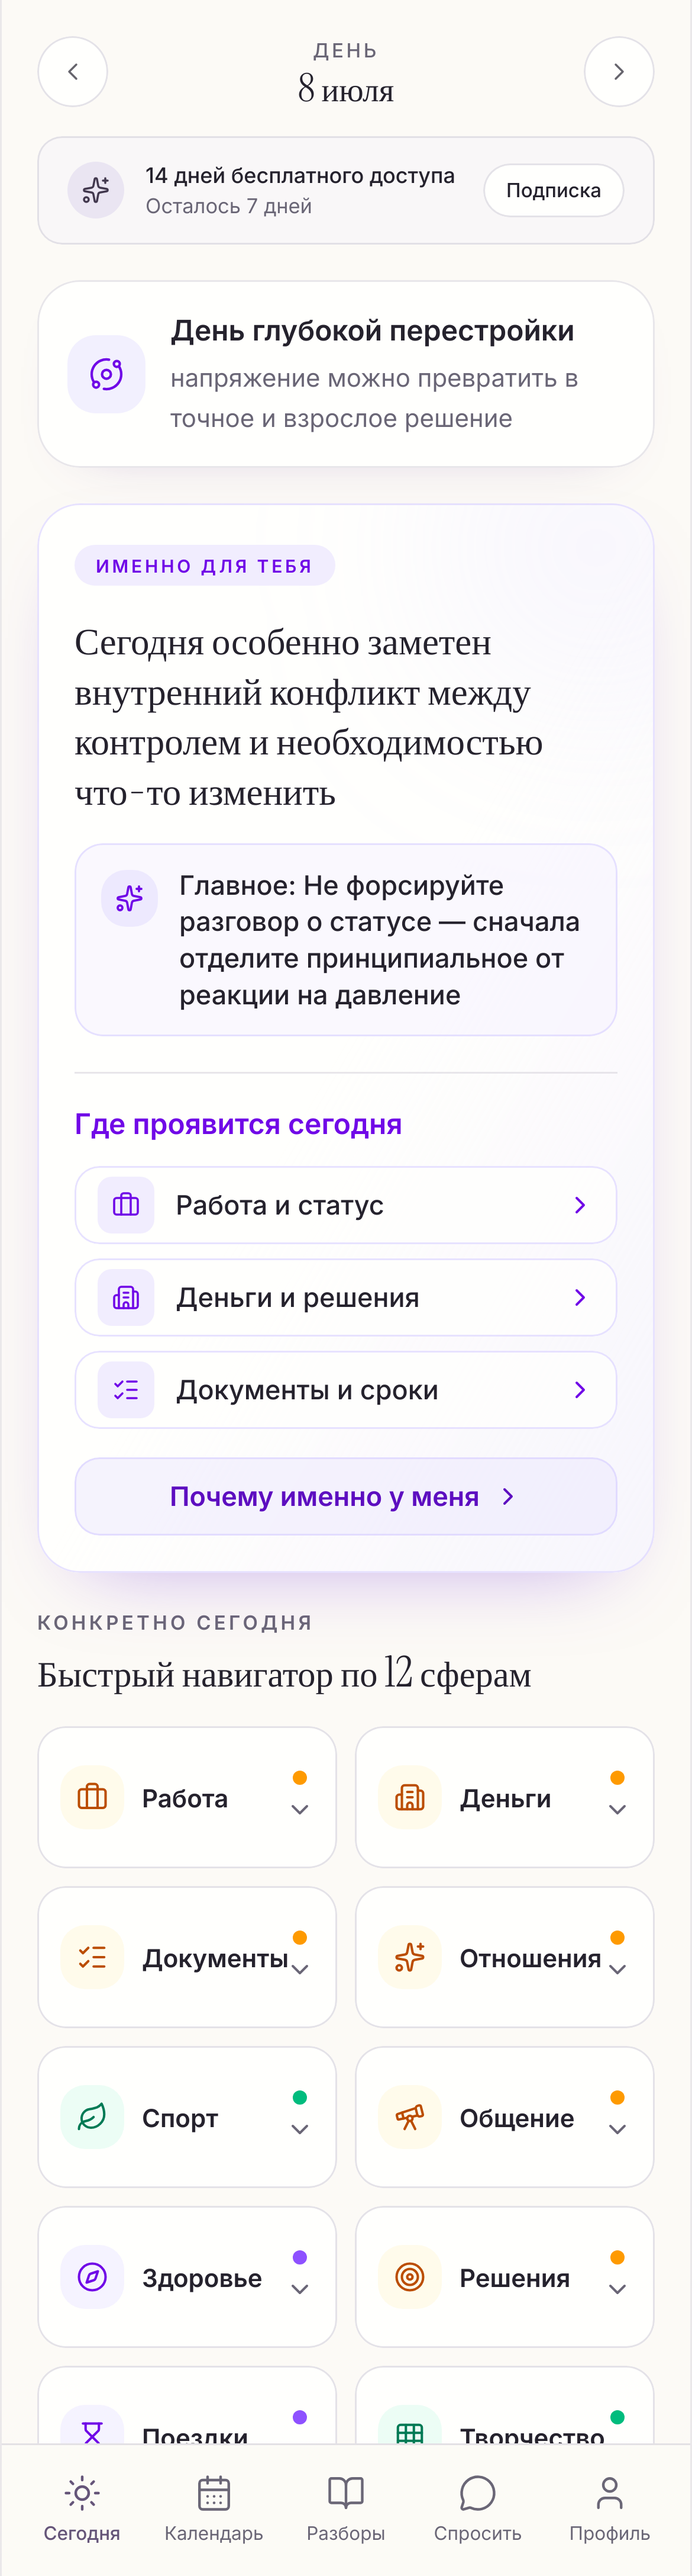
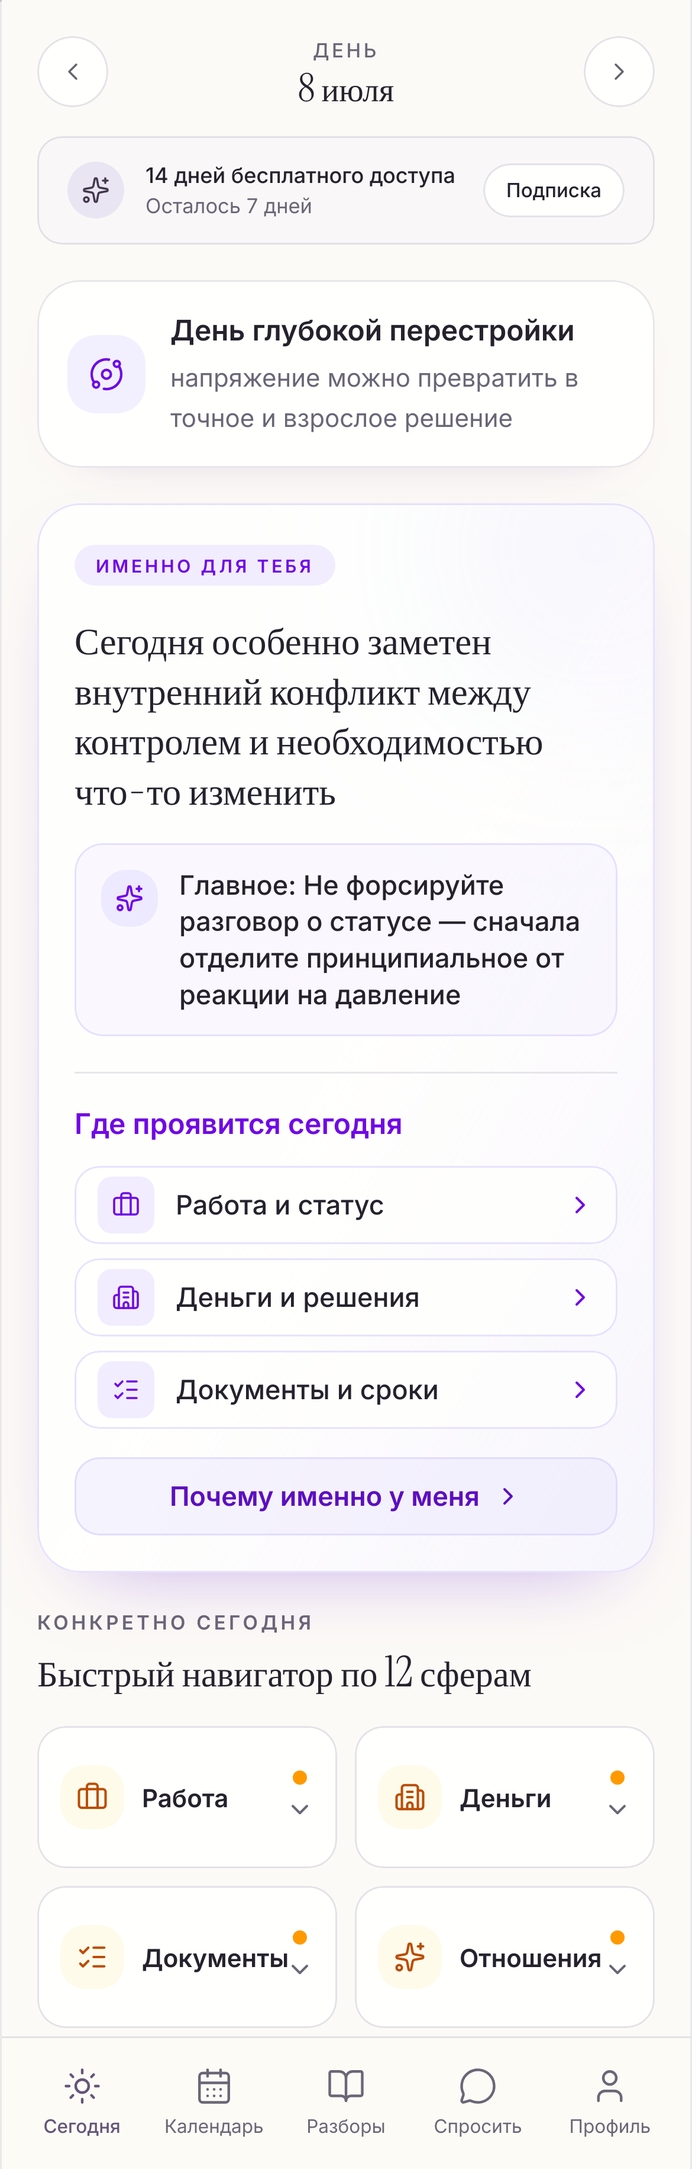
test(today): guard human-first visual captures

diff --git a/e2e/mock-visual/day-v2.spec.ts b/e2e/mock-visual/day-v2.spec.ts
@@ -19,13 +19,14 @@
 // failure_policy: Fails on missing fixture routes, public-contract regressions, or visual mismatch.
 // END_MODULE_CONTRACT: M-E2E-MOCK-VISUAL-DAY-V2
 
-import { expect, test, type Page } from "@playwright/test"
+import { expect, test, type Locator, type Page } from "@playwright/test"
 import { expectNoMissingApiFixtures, installMockApiRoutes, type MockApiRouteFixtures } from "./route-interception"
 import { dayPayloadV2, minimalDayPayloadForDate } from "./fixtures/day-v2-2026-07-08"
 import { calendarPayload } from "./fixtures/calendar-2026-07"
 import { referralPayload, profilePayload } from "./fixtures/profile"
 import fs from "node:fs"
 import path from "node:path"
+import { inflateSync } from "node:zlib"
 
 const WEEK_STRIP_MIN_DATES = [
   "2026-07-05",
@@ -89,10 +90,83 @@ async function hideNextOverlay(page: Page) {
   })
 }
 
-async function capture(page: Page, name: string) {
+function nearBlackPixelRatio(png: Buffer): number {
+  let cursor = 8
+  let width = 0
+  let height = 0
+  const idat: Buffer[] = []
+  while (cursor < png.length) {
+    const length = png.readUInt32BE(cursor)
+    const type = png.subarray(cursor + 4, cursor + 8).toString("ascii")
+    const data = png.subarray(cursor + 8, cursor + 8 + length)
+    if (type === "IHDR") {
+      width = data.readUInt32BE(0)
+      height = data.readUInt32BE(4)
+      if (data[8] !== 8 || data[9] !== 6) throw new Error("Expected an 8-bit RGBA Playwright PNG")
+    }
+    if (type === "IDAT") idat.push(data)
+    cursor += length + 12
+  }
+  const bytesPerRow = width * 4
+  const decompressed = inflateSync(Buffer.concat(idat))
+  let offset = 0
+  let nearBlack = 0
+  let previous = Buffer.alloc(bytesPerRow)
+  for (let row = 0; row < height; row += 1) {
+    const filter = decompressed[offset]
+    offset += 1
+    const raw = decompressed.subarray(offset, offset + bytesPerRow)
+    offset += bytesPerRow
+    const current = Buffer.alloc(bytesPerRow)
+    for (let index = 0; index < bytesPerRow; index += 1) {
+      const left = index >= 4 ? current[index - 4] : 0
+      const above = previous[index]
+      const upperLeft = index >= 4 ? previous[index - 4] : 0
+      const predictor = filter === 0 ? 0
+        : filter === 1 ? left
+          : filter === 2 ? above
+            : filter === 3 ? Math.floor((left + above) / 2)
+              : filter === 4 ? paeth(left, above, upperLeft)
+                : (() => { throw new Error(`Unsupported PNG filter: ${filter}`) })()
+      current[index] = (raw[index] + predictor) & 0xff
+    }
+    for (let index = 0; index < bytesPerRow; index += 4) {
+      if (
+        (current[index] < 12 && current[index + 1] < 12 && current[index + 2] < 12)
+        || current[index + 3] < 250
+      ) nearBlack += 1
+    }
+    previous = current
+  }
+  return nearBlack / (width * height)
+}
+
+function paeth(left: number, above: number, upperLeft: number): number {
+  const estimate = left + above - upperLeft
+  const leftDistance = Math.abs(estimate - left)
+  const aboveDistance = Math.abs(estimate - above)
+  const upperLeftDistance = Math.abs(estimate - upperLeft)
+  return leftDistance <= aboveDistance && leftDistance <= upperLeftDistance
+    ? left
+    : aboveDistance <= upperLeftDistance ? above : upperLeft
+}
+
+function expectLightThemePng(png: Buffer) {
+  expect(nearBlackPixelRatio(png)).toBeLessThan(0.001)
+}
+
+async function capturePage(page: Page, name: string) {
   fs.mkdirSync(ASSETS_DIR, { recursive: true })
-  await page.screenshot({ path: path.join(ASSETS_DIR, name), fullPage: false })
+  const png = await page.screenshot({ path: path.join(ASSETS_DIR, name), fullPage: false })
+  expectLightThemePng(png)
   await expect(page).toHaveScreenshot(name)
+}
+
+async function captureLocator(locator: Locator, name: string) {
+  fs.mkdirSync(ASSETS_DIR, { recursive: true })
+  const png = await locator.screenshot({ path: path.join(ASSETS_DIR, name) })
+  expectLightThemePng(png)
+  await expect(locator).toHaveScreenshot(name)
 }
 
 test.describe("V2 human-first navigator mock visual", () => {
@@ -144,11 +218,17 @@ test.describe("V2 human-first navigator mock visual", () => {
     await expect(navigator).not.toContainText("Показать ещё")
     await expect(navigator).not.toContainText("все 12 сфер")
 
-    // Top state is deliberately captured before scrolling or opening disclosures.
-    await page.setViewportSize({ width: 390, height: 1_450 })
+    // Top state is deliberately captured before opening disclosures. Its tall
+    // viewport includes the complete hero and the first navigator row.
     await screen.evaluate((element) => element.parentElement?.scrollTo({ top: 0 }))
+    const overviewHeight = await page.evaluate(() => {
+      const navigator = document.querySelector<HTMLElement>('[data-testid="concrete-day-advice"]')
+      if (!navigator) throw new Error("Navigator is missing")
+      return navigator.offsetTop + Math.min(navigator.scrollHeight, 220)
+    })
+    await page.setViewportSize({ width: 390, height: Math.ceil(overviewHeight) + 96 })
     await page.waitForTimeout(150)
-    await capture(page, "01-human-first-overview-mobile.png")
+    await capturePage(page, "01-human-first-overview-mobile.png")
 
     const work = navigator.getByTestId("concrete-day-advice-row").filter({ has: page.getByText("Работа", { exact: true }) })
     await work.click()
@@ -160,12 +240,15 @@ test.describe("V2 human-first navigator mock visual", () => {
     await expect(workDetails).not.toContainText(BANNED_HUMAN_COPY)
     await expect(navigator.getByTestId("concrete-day-advice-details")).toHaveCount(1)
 
-    const workScreenHeight = await screen.evaluate((element) => Math.ceil(element.scrollHeight))
-    await page.setViewportSize({ width: 390, height: workScreenHeight + 84 })
+    const [navigatorHeight, workScreenHeight] = await Promise.all([
+      navigator.evaluate((element) => Math.ceil(element.scrollHeight)),
+      screen.evaluate((element) => Math.ceil(element.scrollHeight)),
+    ])
+    await page.setViewportSize({ width: 390, height: Math.max(navigatorHeight, workScreenHeight) + 96 })
     await screen.evaluate((element) => element.parentElement?.scrollTo({ top: 0 }))
+    await navigator.scrollIntoViewIfNeeded()
     await page.waitForTimeout(150)
-    await navigator.screenshot({ path: path.join(ASSETS_DIR, "02-work-sphere-expanded-mobile.png") })
-    await expect(navigator).toHaveScreenshot("02-work-sphere-expanded-mobile.png")
+    await captureLocator(navigator, "02-work-sphere-expanded-mobile.png")
 
     const money = navigator.getByTestId("concrete-day-advice-row").filter({ has: page.getByText("Деньги", { exact: true }) })
     await money.focus()
@@ -203,18 +286,21 @@ test.describe("V2 human-first navigator mock visual", () => {
     await expect(technical).toContainText("Фирдар")
     await expect(technical).not.toContainText(/Moon opposition|act-|source_frame|target_frame|strength|debug/i)
 
-    const whyScreenHeight = await screen.evaluate((element) => Math.ceil(element.scrollHeight))
-    await page.setViewportSize({ width: 390, height: whyScreenHeight + 84 })
+    const [whyHeight, whyScreenHeight] = await Promise.all([
+      why.evaluate((element) => Math.ceil(element.scrollHeight)),
+      screen.evaluate((element) => Math.ceil(element.scrollHeight)),
+    ])
+    await page.setViewportSize({ width: 390, height: Math.max(whyHeight, whyScreenHeight) + 96 })
     await screen.evaluate((element) => element.parentElement?.scrollTo({ top: 0 }))
+    await why.scrollIntoViewIfNeeded()
     await page.waitForTimeout(150)
-    await why.screenshot({ path: path.join(ASSETS_DIR, "03-why-human-and-astro-expanded-mobile.png") })
-    await expect(why).toHaveScreenshot("03-why-human-and-astro-expanded-mobile.png")
+    await captureLocator(why, "03-why-human-and-astro-expanded-mobile.png")
 
     const fullScreenHeight = await screen.evaluate((element) => Math.ceil(element.scrollHeight))
-    await page.setViewportSize({ width: 390, height: fullScreenHeight + 84 })
+    await page.setViewportSize({ width: 390, height: fullScreenHeight + 96 })
     await screen.evaluate((element) => element.parentElement?.scrollTo({ top: 0 }))
     await page.waitForTimeout(150)
-    await capture(page, "04-full-day-human-first-mobile.png")
+    await captureLocator(screen, "04-full-day-human-first-mobile.png")
 
     const overflow = await page.evaluate(() => document.documentElement.scrollWidth <= window.innerWidth)
     expect(overflow).toBe(true)

diff --git a/docs/work/2026-07-10_solarsage-v2-human-first-navigator-preview/01_report.md b/docs/work/2026-07-10_solarsage-v2-human-first-navigator-preview/01_report.md
@@ -40,7 +40,7 @@ The follow-up hardening pass makes human surfaces reject Unicode technical forms
 - Playwright verification: mobile V2 spec, 1 passed.
 - HTTP checks: preview `3003/day/2026-07-08` returned 200; production `3002/` returned 200.
 - Listener check: preview Next is on `0.0.0.0:3003`, test-only mock API is on `127.0.0.1:18092`, production remains on `3002`.
-- Visual self-review: all four assets were inspected for clipping, target size, navigator panel placement, horizontal overflow, contrast, and separation of human/technical copy.
+- Visual self-review: all four assets were inspected for clipping, target size, navigator panel placement, horizontal overflow, contrast, and separation of human/technical copy. The Playwright capture decodes each RGBA PNG and asserts a near-black/transparent-pixel ratio below 0.1% for the light theme.
 
 ## Screenshots
 
